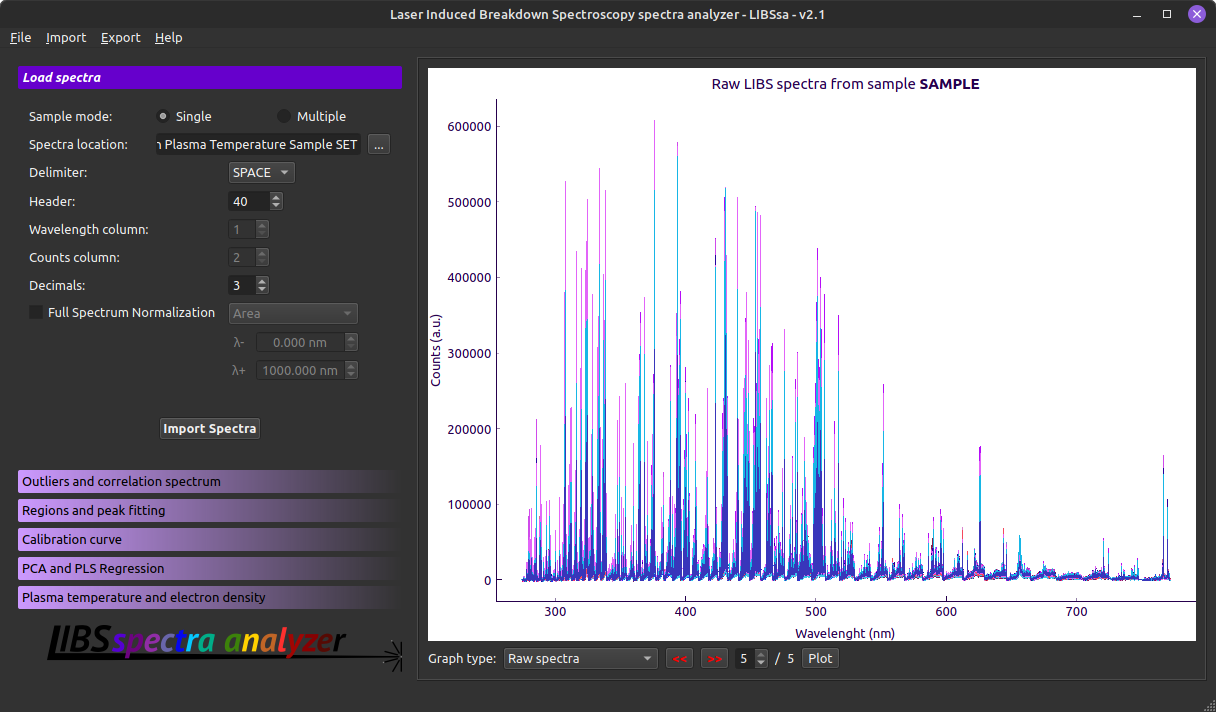
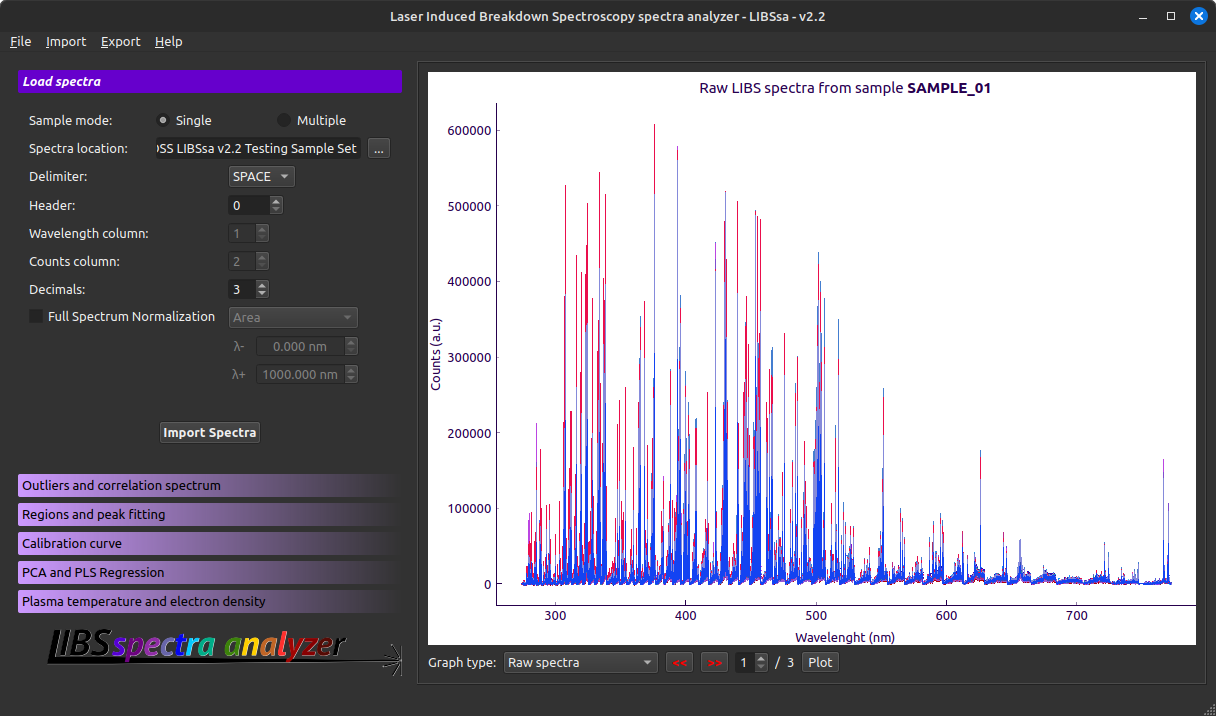
LIBSsa version 2.2
libssa.png
* Replaced main app picture

libssagui.py
* Updated version to 2.2

diff --git a/libssa/env/gui/libssagui.py b/libssa/env/gui/libssagui.py
@@ -54,7 +54,7 @@ class LIBSsaGUI(QtWidgets.QMainWindow):
 			self.loadui(uifile)
 			self.logofile = logofile
 			self.peaknormitems = []
-			self.version = '2.1'
+			self.version = '2.2'
 			self.about_html = ''
 		except Exception as err:
 			raise ValueError('Could not initialize UI file. Error message:\n\t%s' % str(err))
